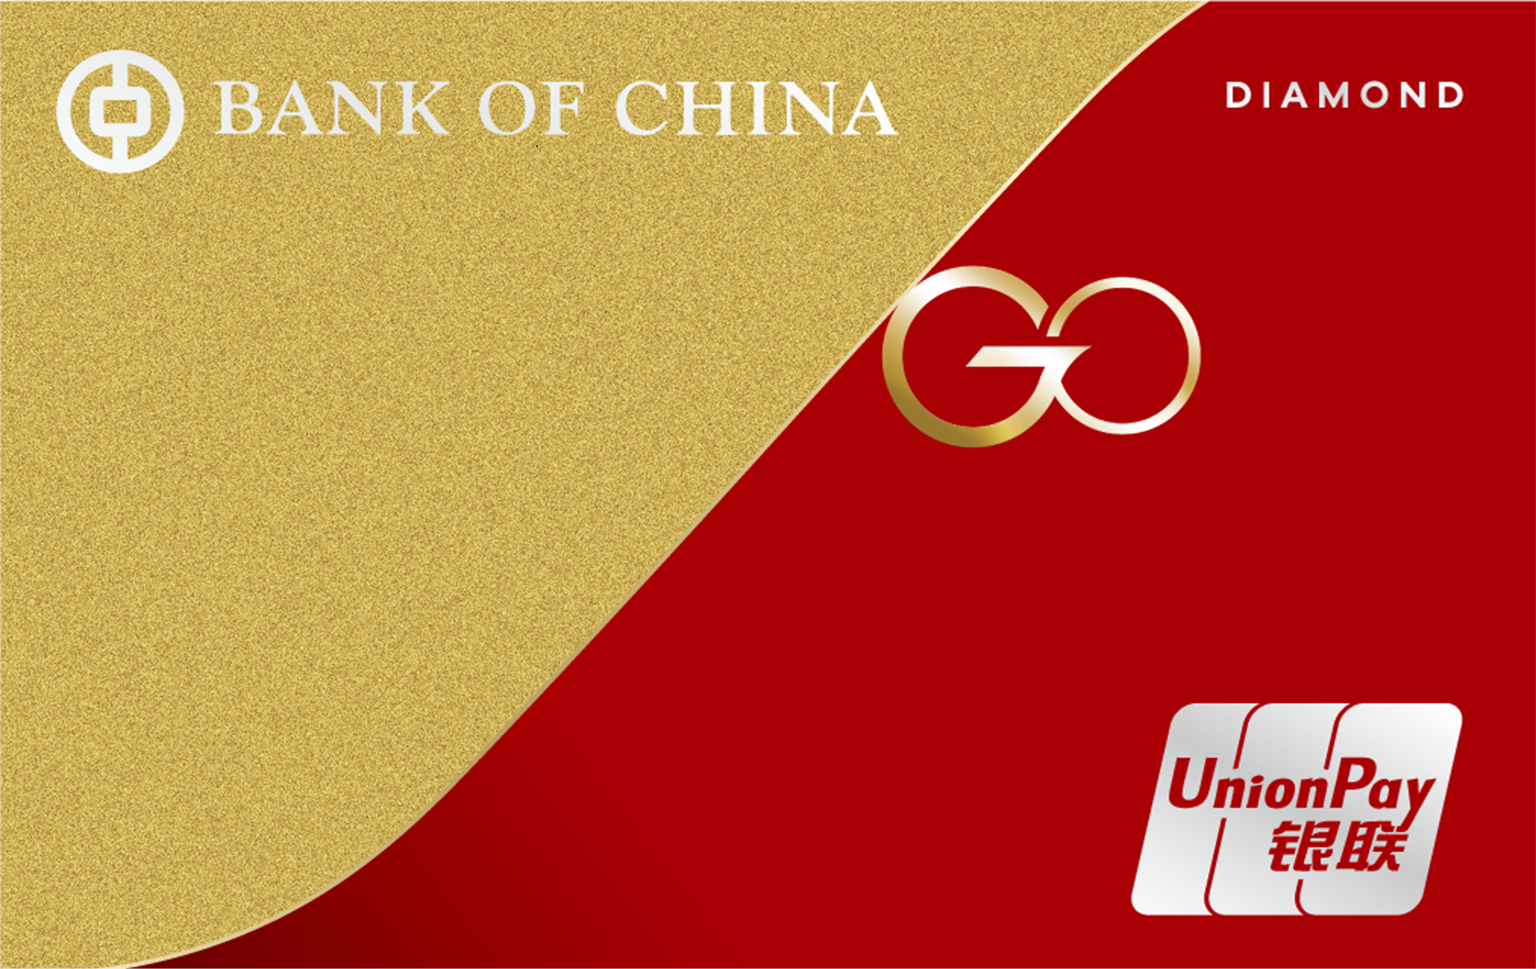
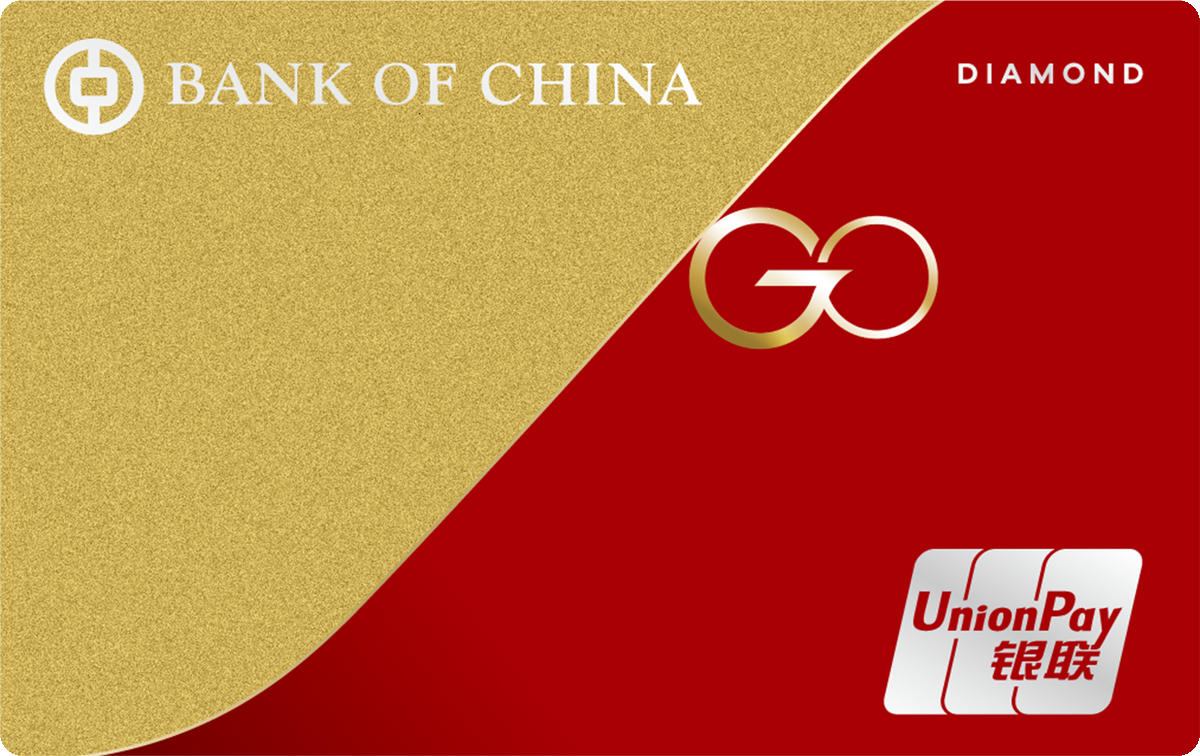
Crop catalog artwork to a uniform canvas
Import the 2026102310 catalog, remove mock-up margins from the GBA and student cards, and assert that bundled artwork uses the shared 1200x756 canvas.

diff --git a/Tests/CardImageTests.swift b/Tests/CardImageTests.swift
@@ -5,25 +5,35 @@ import ImageIO
 
 @Suite
 struct CardImageTests {
-    @Test func currentStudentGoldCanvasIsCroppedInTheSharedDecoder() async throws {
-        let url = try #require(Bundle.main.url(forResource: "hsbc-student-visa-gold", withExtension: "jpg", subdirectory: "Catalog/images/cards"))
+    @Test func normalizedStudentGoldArtworkUsesTheSharedCanvas() async throws {
+        let url = try #require(Bundle.main.url(forResource: "hsbc-student-visa-gold", withExtension: "png", subdirectory: "Catalog/images/cards"))
         let data = try Data(contentsOf: url)
         let asset = try #require(try await CardImageStore.shared.image(for: data))
-        // The decoder scales 1600×900 to 1200×675 before applying the viewport.
-        #expect(asset.image.width == 540)
-        #expect(asset.image.height == 340)
[1 lines of base64/hex data omitted]
+        #expect(asset.image.width == 1200)
+        #expect(asset.image.height == 756)
[1 lines of base64/hex data omitted]
     }
 
     @Test func unknownArtworkIsNeverCroppedByTheKnownCanvasCorrection() throws {
-        let url = try #require(Bundle.main.url(forResource: "hsbc-student-visa-gold", withExtension: "jpg", subdirectory: "Catalog/images/cards"))
+        let url = try #require(Bundle.main.url(forResource: "hsbc-student-visa-gold", withExtension: "png", subdirectory: "Catalog/images/cards"))
         let data = try Data(contentsOf: url)
         let source = try #require(CGImageSourceCreateWithData(data as CFData, nil))
         let image = try #require(CGImageSourceCreateImageAtIndex(source, 0, nil))
         #expect(CardImageContentLayout.image(image, sourceDigest: "custom-artwork") === image)
[1 lines of base64/hex data omitted]
-        #expect(legacy.width == 720)
-        #expect(legacy.height == 453)
+        #expect(legacy.width == 540)
+        #expect(legacy.height == 381)
+    }
+
+    @Test @MainActor func bundledCardArtworkUsesTheSharedCanvas() throws {
+        let library = try BankLibrary.load(remoteCache: nil)
+        for product in library.products {
+            let data = try #require(product.artwork.bundledData())
+            let source = try #require(CGImageSourceCreateWithData(data as CFData, nil))
+            let image = try #require(CGImageSourceCreateImageAtIndex(source, 0, nil))
+            #expect(image.width == 1200)
+            #expect(image.height == 756)
+        }
     }
 
     @Test func officialPortraitIsPreservedAndSharedBetweenConsumers() async throws {

diff --git a/docs/cncbi-library-research.md b/docs/cncbi-library-research.md
@@ -20,7 +20,7 @@
 | 本地资源（BankLibrary内） | 来源 | 说明 |
 |---|---|---|
 | `Catalog/images/cards/cncbi-gba-dual.png` | 官方产品页核对卡种；卡面由公开产品宣传图裁切 | 官方页面未提供可直接下载的独立 GBA 卡面文件；未重绘卡面或伪造标志。若后续取得官方独立卡面，应替换并记录下载 URL |
-| `Catalog/images/cards/cncbi-multi-currency-debit.png` | https://www.cncbinternational.com/_document/about-us/media-center/2025-10-13/tc/p251013.pdf（第3页内嵌图） | 官方新闻稿内嵌卡面，403×657，保留完整比例 |
+| `Catalog/images/cards/cncbi-multi-currency-debit.png` | 用户提供的横版卡面 | 已统一为 1200×756 横版；公开版本移除卡号尾号 |
 | `cncbi-logo.png` | https://www.cncbinternational.com/personal/e-banking/inmotion/images/cncbi-logo.png | 银行官网页首 logo，230×62 |
 
 这些图像及品牌标识的权利归中信银行（国际）所有，仅用于卡种识别，不纳入项目代码许可证。
